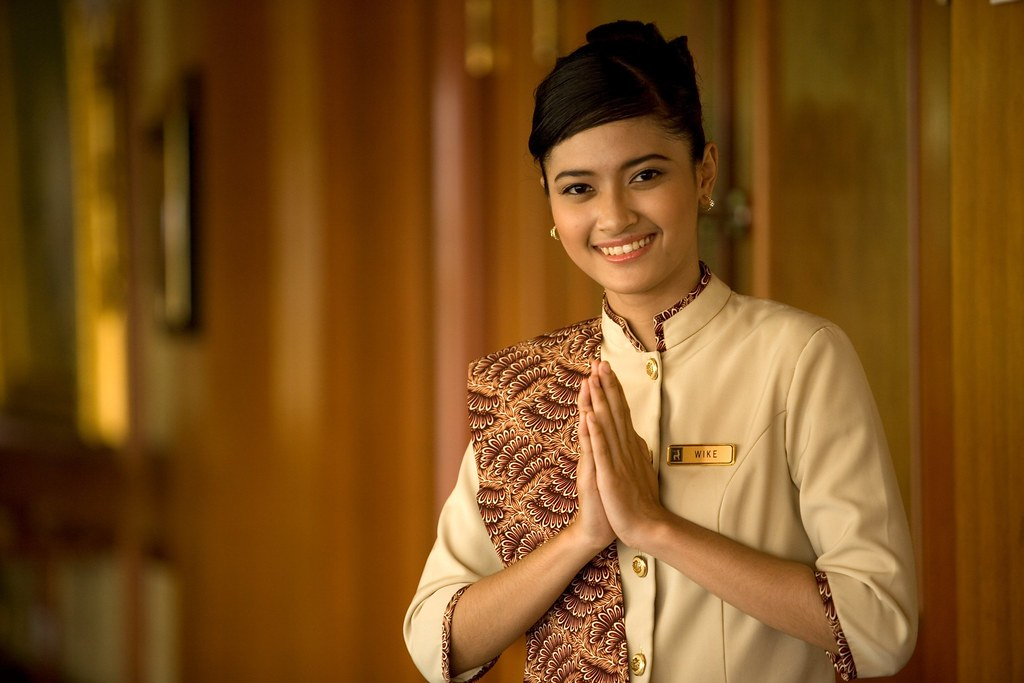
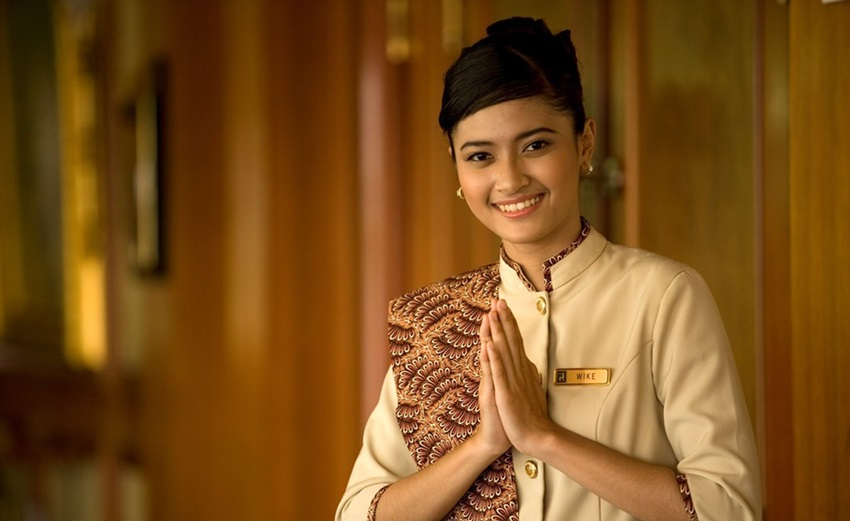
updated

diff --git a/public/css/style4.css b/public/css/style4.css
@@ -2,7 +2,7 @@
     height: 85%;
     width: 100%;
     margin-bottom: 3%;
-    background-image: url('/namaste1.jpg');
+    background-image: url('/images/namaste1.jpg');
     background-position: center center;
     background-repeat: no-repeat;
     background-size: cover;
